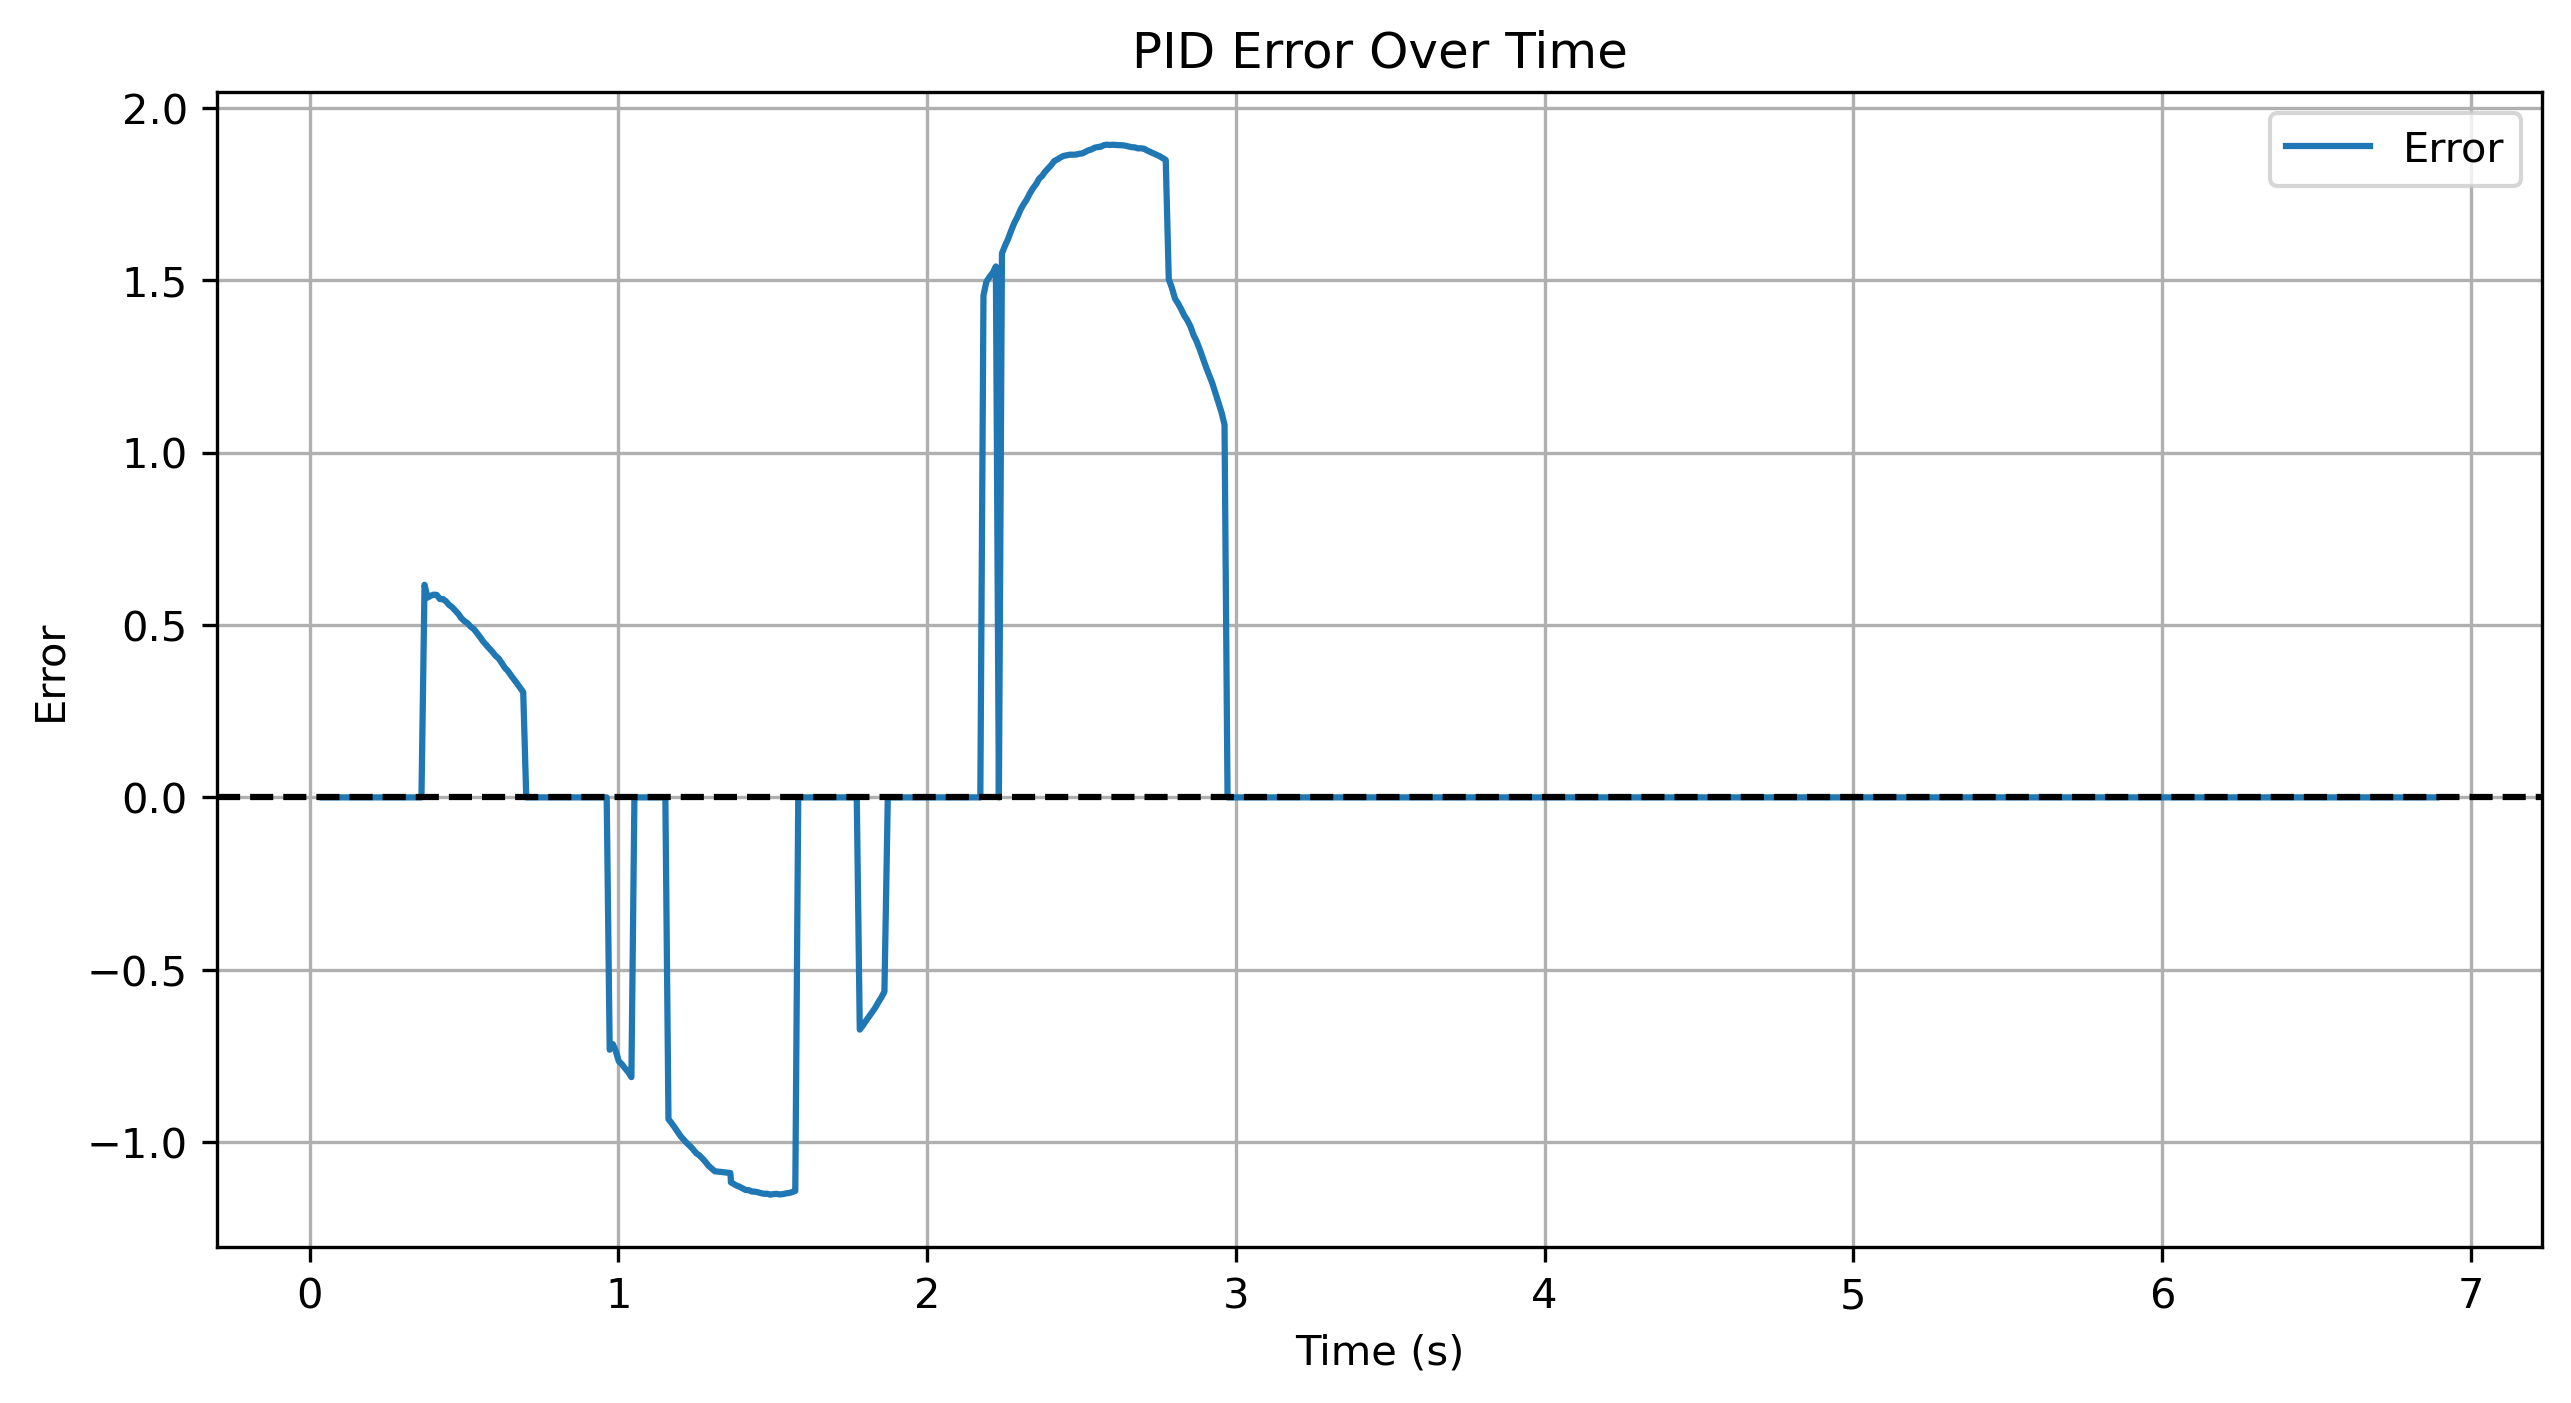
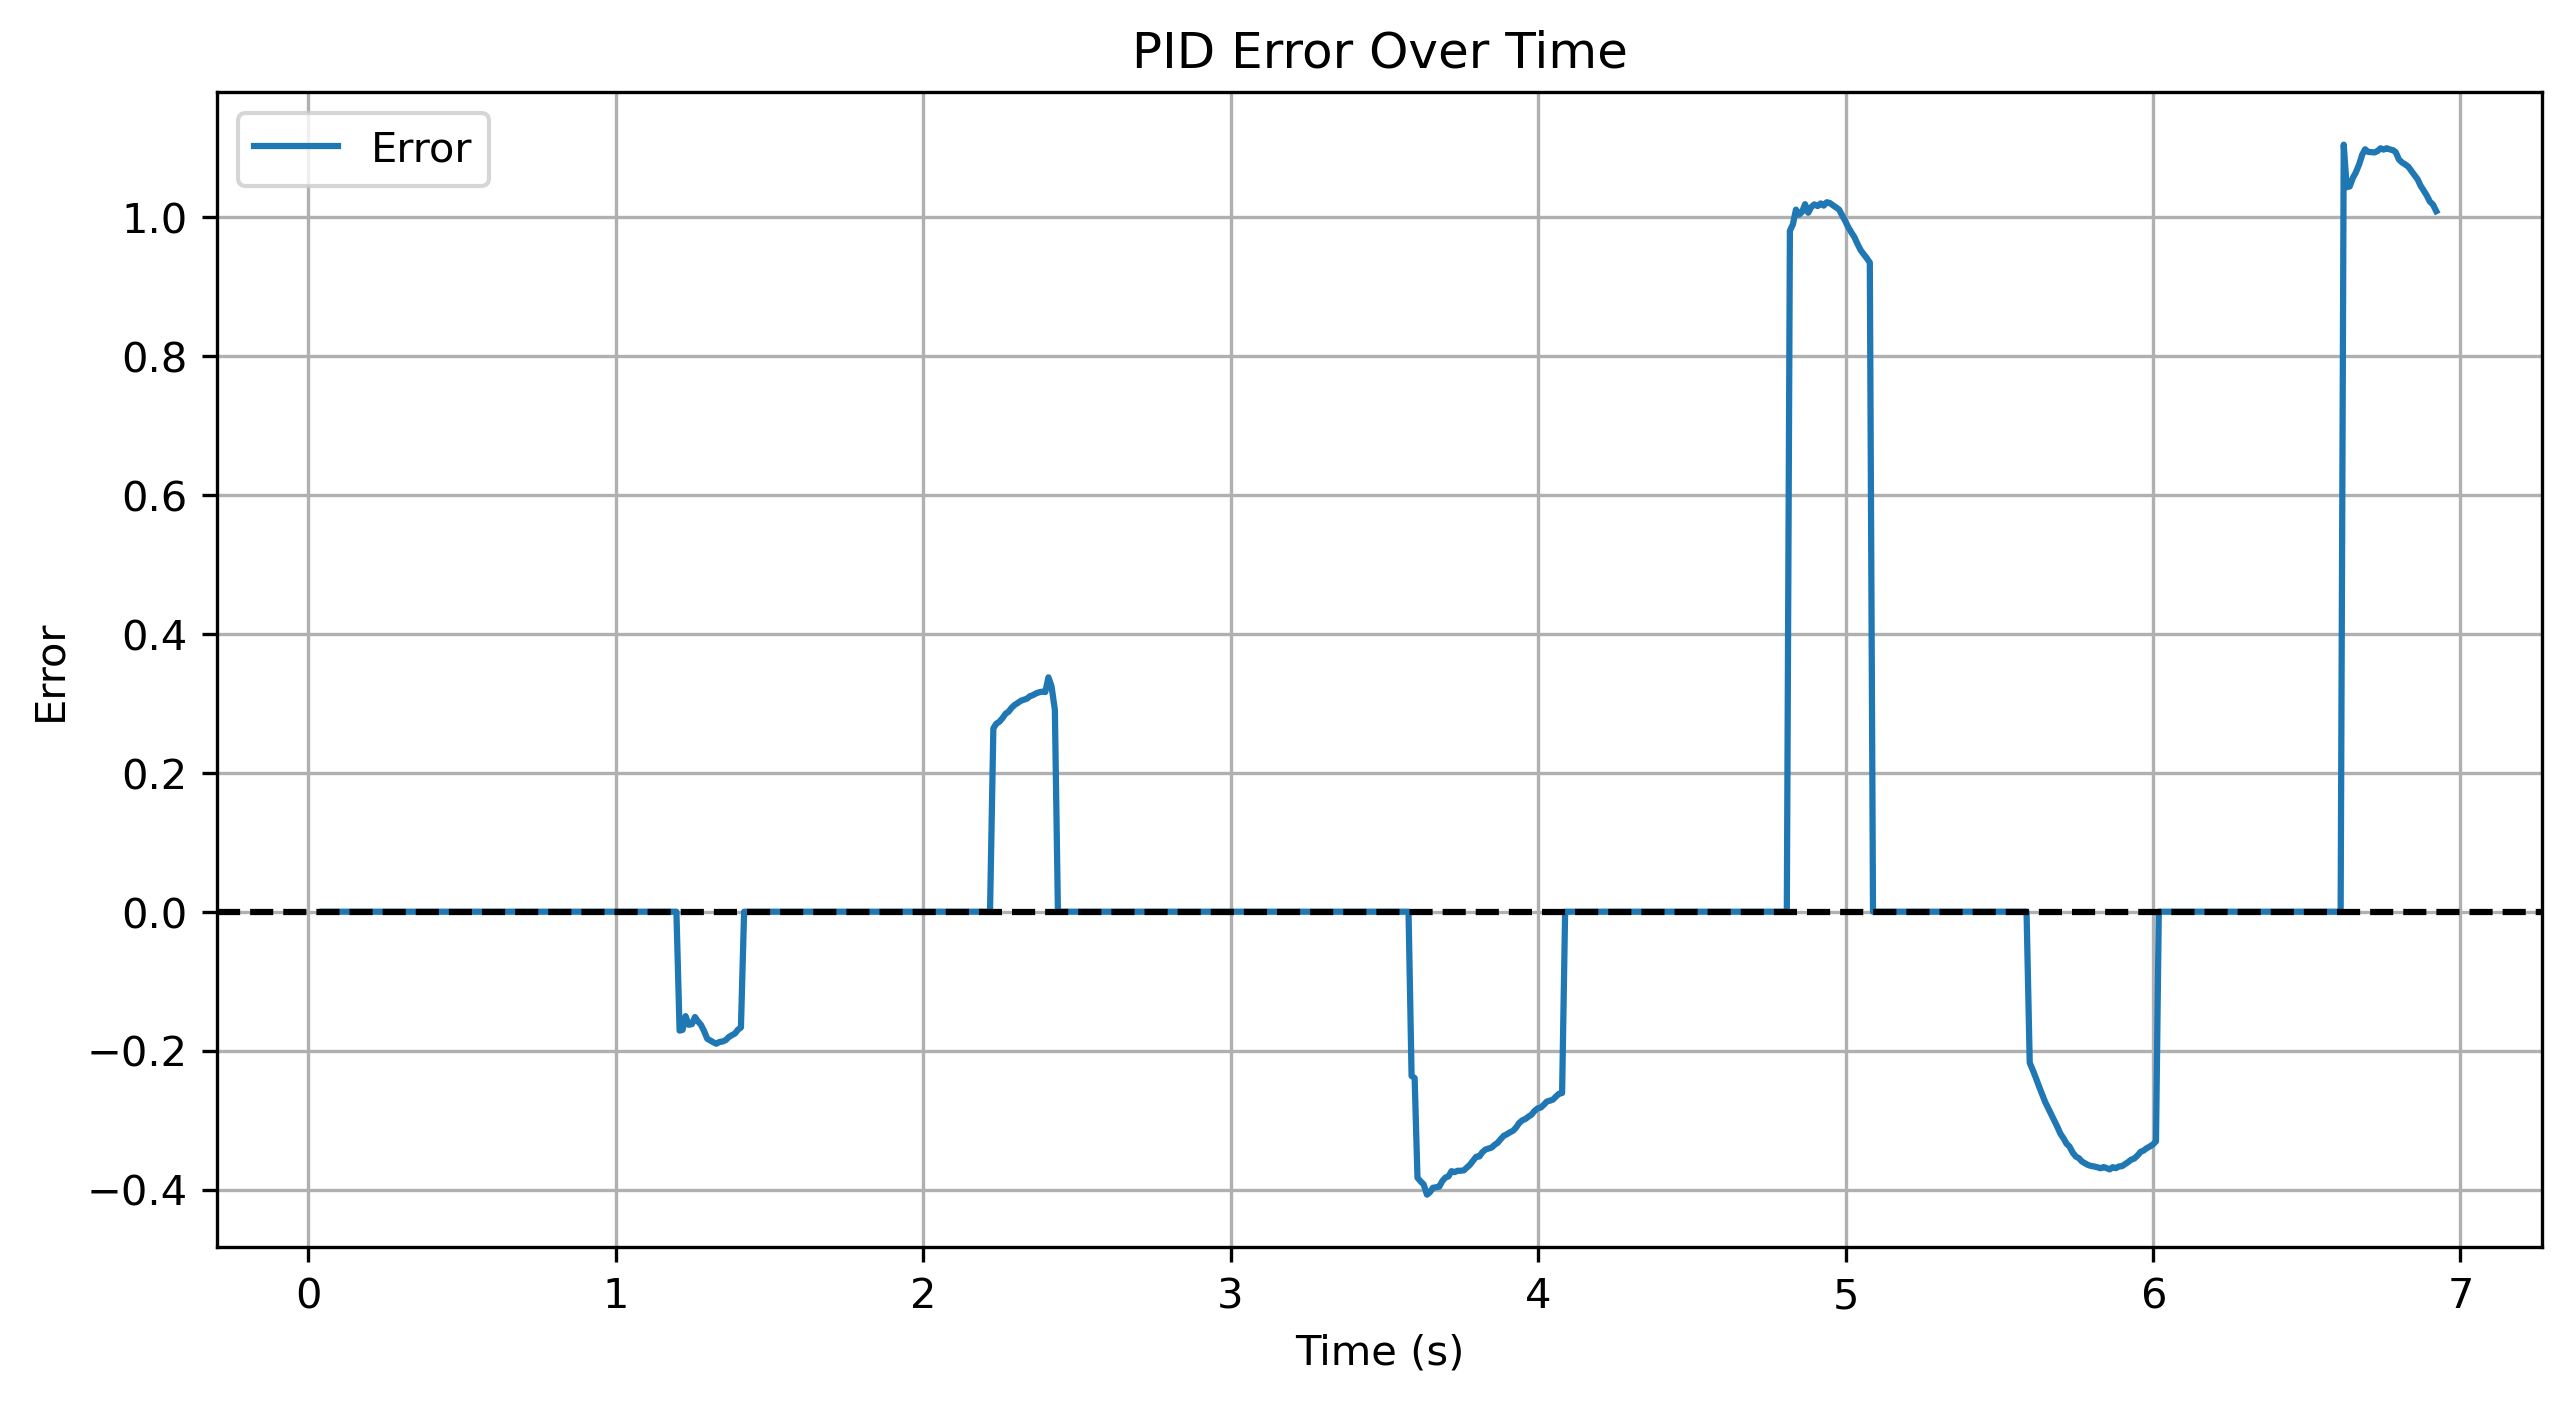
pid values

diff --git a/robobot/mqtt_python/sedge.py b/robobot/mqtt_python/sedge.py
@@ -91,9 +91,9 @@ class SEdge:
     lineCtrl = False # private
 
     # my PID values
-    Kp = 1.0  # Proportional constant
-    Ki = 0.6  # Integral constant
-    Kd = 0.5  # Derivative constant
+    Kp = 0.5  # Proportional constant
+    Ki = 0.5  # Integral constant
+    Kd = 0.8  # Derivative constant
     # PID values from the c++ code (upid)
 
     # values for ID
